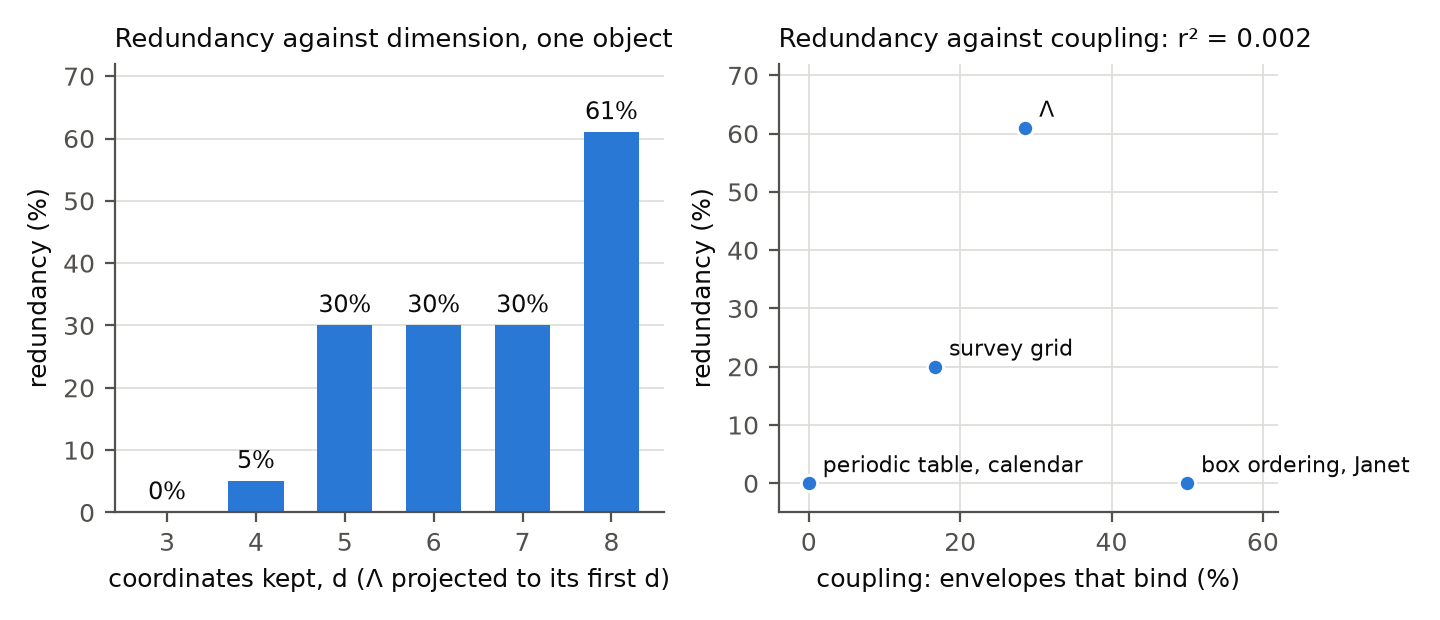
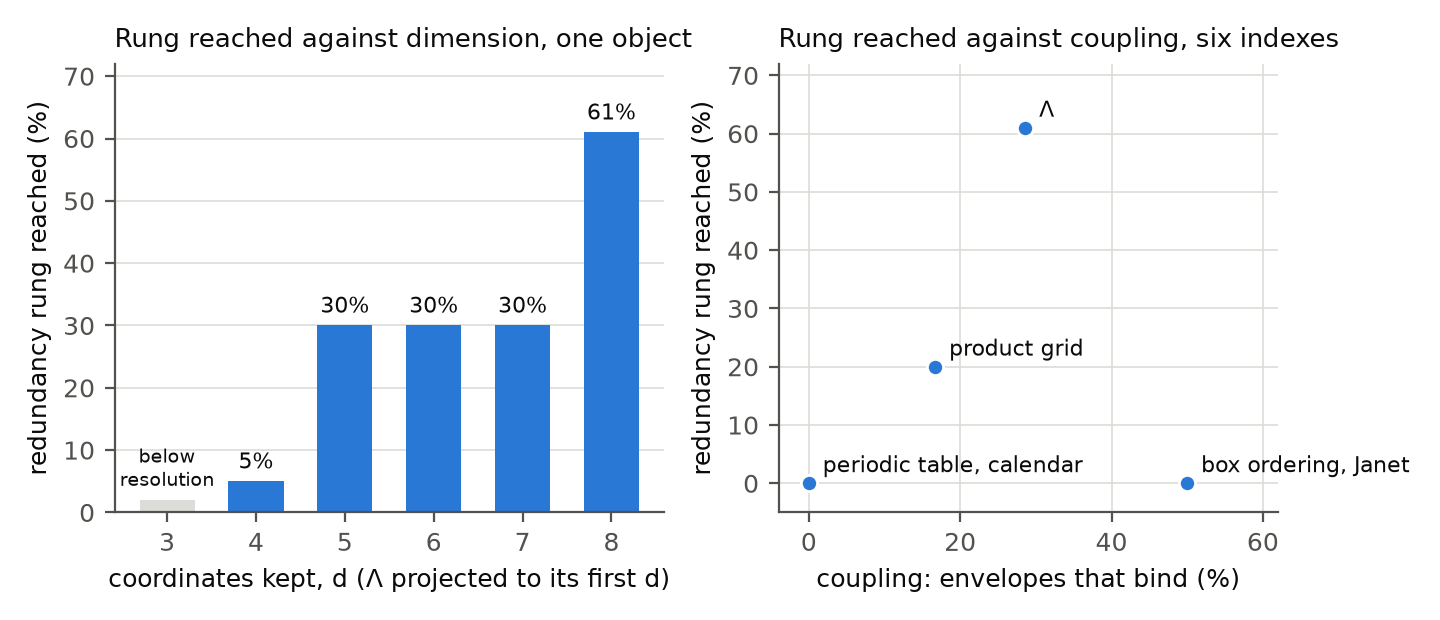
papers: in-flight files from the running repairs
Committed as produced so nothing is held only in an ephemeral container. Unreviewed.

Claude-Session: https://claude.ai/code/session_015arF96h4V4phUNuBUUKzSG

diff --git a/papers/method/06-order-recovery/AUDIT.md b/papers/method/06-order-recovery/AUDIT.md
@@ -444,3 +444,72 @@ declined NP-completeness headline, the unprinted source figures. Against that:
 **Counts.** BLOCKING 3 (one issue, A-1, seen by all three readers: A-1, R-1, R-21); MAJOR 20
 (A-2 … A-10, A-12; R-2 … R-5, R-15, R-16, R-22 … R-25); MINOR 35. Distinct issues: 1 blocking,
 12 major, 26 minor.
+
+---
+
+## Repair record — 2026-09-24
+
+Repaired by the drafter against every finding above; nothing above was deleted or rewritten, and every
+disposition in Part C is filled. A first repair attempt was cut off by a service limit while it was
+independently verifying A-1 (its census script, run to completion here, agreed with the audit on every
+figure: C-bijunctive 2, 5, 15, 52; the witness; 10 of 14 on the plate's own parametrisation; the
+maximal sublattices of 2², 2³, 2⁴); this record is the completed repair.
+
+**Dispositions.** BLOCKING 1: FIXED. MAJOR 12 distinct (A-2 … A-10, A-12, R-16, R-22): 12 FIXED.
+MINOR 26 distinct: 24 FIXED, 2 FIXED in part with the remainder DECLINED — A-11 (iv), the copied
+plate's own overprint and missing axis labels, not redrawn; R-26's optional references (Roberts 1969,
+Fishburn 1985), not added. Every R-n that restates an A-n carries that A-n's disposition.
+
+**How A-1 resolved.** The audit's census on C was reproduced in `check.py` by two independent
+decision procedures (majority-closure at k ≤ 4; the two-clause closure at every k ≤ 5), agreeing on
+every relation; the six-cell witness realises its constraint at (000, 111) and the constraint's
+majority failure is computed, not asserted. The law is now Theorem 8: *a pair constraint is bijunctive
+iff it is a partition constraint*, so the bijunctive constraints at arity k number B(k) — 2, 5, 15,
+52 — proved for every k (⇐ directly; ⇒ through Schaefer's two-clause characterisation, complement
+closure pairing the clauses into equalities) and enumerated at k ≤ 5. The boundary is at d = 3 in the
+thesis, abstract, §0, Theorem 8, §6.5, Figure 4 and §8. The T census (2, 8, 73, 1,442) stays as a
+labelled auxiliary column; C bijunctive ⇒ T bijunctive is checked (0 failures), the converse fails
+from arity 3, and the paper says why bijunctivity of T has no two-clause consequence (an exclusive-or
+is not bijunctive, D10). Title kept — see A-1's disposition and SOURCES.md §1a for the superseded
+statement.
+
+**What changed.** `PAPER.md`: every mathematics code span rewritten as Unicode (A-10); thesis,
+abstract, §0 items 2, 4, 5, 6 and every "not established" bullet; D4 (no −∞), D8 (G-structured, the
+Freuder gloss), D9 (pair and partition constraint), D10 (XOR not bijunctive), D11 (drop ≤ step),
+Notation (the convention flagged); Theorem 1 (⇒) hypothesis and Step 2; §2.2 cost; §3.1 D1 exhibit;
+Lemma 5 for multisets; the PQ-tree sentence; DECIDE₂ cost; Theorem 4 for a graph; RECOVER in a
+fenced block, memoised, with Theorem 5's cost clause and proof; Theorem 6's phrasing; step 3 of the
+loop; the Janet instance (19/20 subshells); §5.1 parity paragraph; §5.2 the 18 = 17 + bottom; Figure
+2's caption; "Which sixteen"; Lemma 7's typo; Theorem 7 with proof; Theorem 8 restated and proved;
+both witnesses; Table 2's and Figure 3's captions; Theorem 9 in terms of drop; Corollary 2 (new, with
+Rival); §6.5 rewritten (0-/1-valid, ≠, the three points, Green–Cohen and Jeavons–Cooper); Figure 4's
+caption; §7.2 rank at a point and Edlén §17; §7.3 the 1p example and the 32 minimum cells; Lemma 9
+headed with Rival and the convention; §8 rewritten (guards table, obligations table, totals 111);
+references (Green–Cohen, Jeavons–Cooper added; Janet 1928; Scerri's imprint unchanged). `check.py`
+(never weakened; 30 new obligation lines, one folded): as listed in SOURCES.md "The repair".
+`figures.py`: `fig_arity` redrawn on `pair_constraint_exact` with T as hollow markers; Figure 1's
+labels enlarged. `FIGURES.tsv`: three new md5s (fig1, fig4, fig5), the plates unchanged.
+`SOURCES.md`: rewritten for the repair (the plate's 10 of 14, the superseded law, Rival, Green–Cohen,
+Jeavons–Cooper, Janet, the 19/20 subshells, 0.724).
+
+**Re-verification.** `export PATH=/home/user/Claude-Method-Works/method/bin:$PATH; python3 check.py
+--selftest`: **111 obligations — 72 EXHAUSTIVE, 28 MACHINE-CHECKED, 8 REFUTATION, 3 SAMPLED — all
+discharged, exit 0, 273.4 s; SELFTEST PASS on five negative controls** (the new fifth: "every arity-3
+pair constraint is bijunctive" refuted, 5 of 8). Guards: non-vacuity on 14 boxes; fidelity 150 / 1,387
+/ 944 / 150 (closure-under-s, ⊑, s*, harness closed), 120 / 3,700 / 120 (Theorem 3's encodings), 120
+(Lemma 9's), 120 / 120 (reference closure), negative control 10 disagreements detected. `python3
+papers/method/lint.py`: 0 hits. `render.py`: 28 pages. **Page check (BRIEF-AUDIT step 6)**: the
+chromium screenshot of the HTML head and all 28 PDF pages (pymupdf, 110 dpi, read as 2×2 grids) show
+Unicode subscripts and superscripts throughout, every figure with its caption beneath it, the RECOVER
+block whole on p. 12, no table cell clipped, and "Obligations by status." on the same page (25) as its
+table (A-11 (ii) resolved by the reflow; the guard table splits across pp. 24–25 at a row boundary,
+which the template allows). pypdf text extraction of the PDF: **0 underscores, 0 carets, 0
+backslashes**; 11 asterisks, all the recovered order s*. The status-word table splits across pp. 3–4
+at a row boundary, as before.
+
+**Unresolved, recorded for the author.** Rival's cardinality bound is printed in the audit's
+direction, |L| ≤ (3/2)|K|, and is used in no proof; its wording could not be verified (only the
+interval theorem was, through arXiv:2507.22682). Green and Cohen's "domain size three, binary
+instances" detail is not printed because it could not be verified (their Boolean tractability and
+general NP-hardness were, through arXiv:1708.08292). Janet 1928 follows the audit and is not
+independently verified.
